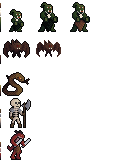
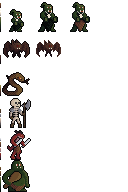
Pixel art, separated monster movement speed and attack speed.

diff --git a/code/monster.c b/code/monster.c
@@ -54,8 +54,9 @@ add_monster(monster_type type, v2u pos)
                     monster->h = 32;
                     monster->max_hp = 3;
                     monster->hp = monster->max_hp;
-                    monster->damage = 1;
-                    monster->speed = 1;
+                    monster->damage = 2;
+                    monster->attack_speed = 1;
+                    monster->move_speed = 1;
                     monster->level = 1;
                     
                     monster->sprite.idle_start_frame = V2u(0, 1);
@@ -81,10 +82,11 @@ add_monster(monster_type type, v2u pos)
                     strcpy(monster->name, "Skeleton");
                     monster->w = 32;
                     monster->h = 32;
-                    monster->max_hp = 4;
+                    monster->max_hp = 5;
                     monster->hp = monster->max_hp;
-                    monster->damage = 2;
-                    monster->speed = 1;
+                    monster->damage = 3;
+                    monster->attack_speed = 1;
+                    monster->move_speed = 1;
                     monster->level = 2;
                     
                     monster->sprite.idle_start_frame = V2u(0, 3);
@@ -110,11 +112,12 @@ add_monster(monster_type type, v2u pos)
                     strcpy(monster->name, "Armored Skeleton");
                     monster->w = 32;
                     monster->h = 32;
-                    monster->max_hp = 8;
+                    monster->max_hp = 5;
                     monster->hp = monster->max_hp;
                     monster->damage = 4;
-                    monster->speed = 1;
-                    monster->level = 4;
+                    monster->attack_speed = 1;
+                    monster->move_speed = 1;
+                    monster->level = 3;
                     
                     monster->sprite.idle_start_frame = V2u(0, 5);
                     monster->sprite.idle_frame_count = 0;
@@ -142,8 +145,9 @@ add_monster(monster_type type, v2u pos)
                     monster->max_hp = 6;
                     monster->hp = monster->max_hp;
                     monster->damage = 3;
-                    monster->speed = 1;
-                    monster->level = 2;
+                    monster->attack_speed = 1;
+                    monster->move_speed = 1;
+                    monster->level = 3;
                     
                     monster->sprite.idle_start_frame = V2u(0, 7);
                     monster->sprite.idle_frame_count = 0;
@@ -171,7 +175,8 @@ add_monster(monster_type type, v2u pos)
                     monster->max_hp = 2;
                     monster->hp = monster->max_hp;
                     monster->damage = 1;
-                    monster->speed = 1;
+                    monster->attack_speed = 1;
+                    monster->move_speed = 1;
                     monster->level = 1;
                     
                     monster->sprite.idle_start_frame = V2u(0, 9);
@@ -199,9 +204,10 @@ add_monster(monster_type type, v2u pos)
                     monster->h = 32;
                     monster->max_hp = 2;
                     monster->hp = monster->max_hp;
-                    monster->damage = 2;
-                    monster->speed = 1;
-                    monster->level = 1;
+                    monster->damage = 1;
+                    monster->attack_speed = 1;
+                    monster->move_speed = 2;
+                    monster->level = 2;
                     
                     monster->sprite.idle_start_frame = V2u(0, 11);
                     monster->sprite.idle_frame_count = 0;
@@ -228,11 +234,42 @@ add_monster(monster_type type, v2u pos)
                     monster->h = 32;
                     monster->max_hp = 6;
                     monster->hp = monster->max_hp;
-                    monster->damage = 3;
-                    monster->speed = 1;
-                    monster->level = 1;
+                    monster->damage = 4;
+                    monster->attack_speed = 1;
+                    monster->move_speed = 1;
+                    monster->level = 3;
                     
                     monster->sprite.idle_start_frame = V2u(0, 13);
+                    monster->sprite.idle_frame_count = 0;
+                    monster->sprite.current_frame = monster->sprite.idle_start_frame;
+                    
+                    if(rand_num(0, 1))
+                    {
+                        monster->sprite.idle_frame_duration = 600 - SPRITE_ANIMATION_OFFSET;
+                    }
+                    else
+                    {
+                        monster->sprite.idle_frame_duration = 600 + SPRITE_ANIMATION_OFFSET;
+                    }
+                    
+                    monster->sprite.dead_start_frame = V2u(0, 10);
+                    monster->sprite.dead_frame_count = 0;
+                    monster->sprite.dead_frame_duration = 150;
+                } break;
+                
+                case monster_ogre:
+                {
+                    strcpy(monster->name, "Ogre");
+                    monster->w = 32;
+                    monster->h = 32;
+                    monster->max_hp = 8;
+                    monster->hp = monster->max_hp;
+                    monster->damage = 6;
+                    monster->attack_speed = 1;
+                    monster->move_speed = 1;
+                    monster->level = 4;
+                    
+                    monster->sprite.idle_start_frame = V2u(0, 15);
                     monster->sprite.idle_frame_count = 0;
                     monster->sprite.current_frame = monster->sprite.idle_start_frame;
                     
@@ -330,6 +367,11 @@ get_monster_attack_message(monster_type type, char *message)
             }
         } break;
         
+        case monster_ogre:
+        {
+            strcpy(message, "The Ogre bashes you for");
+        } break;
+        
         invalid_default_case;
     }
 }
@@ -380,9 +422,14 @@ apply_monster_ai(monster_t *monster)
 internal void
 monster_traverse_path(monster_t *monster, path_t *path)
 {
-    if(V2u_equal(path->list[0], player.pos))
+    if(!monster->has_attacked && V2u_equal(path->list[0], player.pos))
     {
-        monster_attack_player(monster);
+        for(u32 i = 0; i < monster->attack_speed; ++i)
+        {
+            monster_attack_player(monster);
+        }
+        
+        monster->has_attacked = true;
     }
     else
     {
@@ -419,7 +466,6 @@ monster_traverse_path(monster_t *monster, path_t *path)
         {
             monster->new_pos = path->list[0];
         }
-        
     }
     
     free(path);
@@ -433,9 +479,7 @@ update_monsters()
         monster_t *monster = &monsters[i];
         if(monster->type && monster->state)
         {
-            for(u32 speed_index = 0;
-                speed_index < monster->speed;
-                ++speed_index)
+            for(u32 i = 0; i < monster->move_speed; ++i)
             {
                 if(monster->in_combat)
                 {
@@ -450,7 +494,7 @@ update_monsters()
                     }
                     
                     path_t *path = pathfind(monster->pos, player.pos, pathfind_cardinal);
-                    if(path->found)
+                    if(path->was_found)
                     {
                         monster_traverse_path(monster, path);
                     }
@@ -461,7 +505,7 @@ update_monsters()
                 }
                 else
                 {
-                    apply_monster_ai(&monsters[i]);
+                    apply_monster_ai(monsters);
                 }
                 
                 if(is_traversable(monster->new_pos))
@@ -477,6 +521,8 @@ update_monsters()
                 // NOTE(rami): This is to keep the new_pos locked.
                 monster->new_pos = monster->pos;
             }
+            
+            monster->has_attacked = false;
         }
     }
 }

diff --git a/code/moonbreath.c b/code/moonbreath.c
@@ -23,14 +23,6 @@
 // Write the fastest, simplest way what you need, make it actually work.
 // Can you clean it? Simplify it? Pull things into reusable functions? (Compression Oriented)
 
-// TODO(rami): More monsters!!
-// Snake (DONE)
-// Kobold (DONE)
-// Troll
-// Orc (DONE)
-// Bat (DONE)
-// Ogre
-
 // TODO(rami): After we have the above monster art we can start
 // thinking about their stats (remember Speed!) and balance.
 
@@ -479,17 +471,7 @@ run_game()
     generate_dungeon();
     update_fov(); // NOTE(rami): This is so that we can see without moving initially.
     
-    add_monster(monster_skeleton, V2u(player.pos.x - 2, player.pos.y + 1));
-    add_monster(monster_armored_skeleton, V2u(player.pos.x - 2, player.pos.y + 2));
-    add_monster(monster_kobold, V2u(player.pos.x - 2, player.pos.y + 3));
-    
-#if 0
-    add_monster(monster_slime, V2u(player.pos.x - 2, player.pos.y));
-    add_monster(monster_skeleton, V2u(player.pos.x - 2, player.pos.y + 1));
-    add_monster(monster_orc_warrior, V2u(player.pos.x - 2, player.pos.y + 2));
-    add_monster(monster_cave_bat, V2u(player.pos.x - 2, player.pos.y + 3));
-    add_monster(monster_python, V2u(player.pos.x - 2, player.pos.y + 4));
-#endif
+    add_monster(monster_python, V2u(player.pos.x - 2, player.pos.y));
     
 #if 1
     add_item(id_knights_greaves, V2u(player.pos.x, player.pos.y + 2));

diff --git a/code/pathfind.c b/code/pathfind.c
@@ -31,8 +31,8 @@ typedef struct
 
 typedef struct
 {
-    b32 found;
-    u32 length;
+    b32 was_found;
+    u32 list_length;
     v2u list[NODE_COUNT];
 } path_t;
 
@@ -235,7 +235,7 @@ set_path_list(path_t *path, node_t *closed_list, v2u start, v2u end)
         current = find_node(closed_list, current.parent_pos);
     }
     
-    path->length = length;
+    path->list_length = length;
     
     current = find_node(closed_list, end);
     for(s32 i = length - 1; i >= 0; --i)
@@ -270,7 +270,7 @@ pathfind(v2u start, v2u end, pathfind_type type)
             
             if(in_list(lists->closed, end))
             {
-                path->found = true;
+                path->was_found = true;
                 set_path_list(path, lists->closed, start, end);
                 break;
             }

diff --git a/code/monster.h b/code/monster.h
@@ -14,6 +14,7 @@ typedef enum
     monster_cave_bat,
     monster_python,
     monster_kobold,
+    monster_ogre,
     
     monster_total
 } monster_type;
@@ -34,10 +35,12 @@ typedef struct
     u32 hp;
     u32 damage;
     u32 armor;
-    u32 speed;
+    u32 attack_speed;
+    u32 move_speed;
     u32 level;
     
     b32 in_combat;
+    b32 has_attacked;
     
     sprite_t sprite;
     b32 sprite_flip;

diff --git a/code/player.c b/code/player.c
@@ -6,7 +6,7 @@ initialize_player()
     strcpy(player.name, "Zerker");
     player.max_hp = 10;
     player.hp = 8;
-    player.speed = 1;
+    player.move_speed = 1;
     player.fov = 6;
     
     player.sprite.idle_frame_count = 0;

diff --git a/code/player.h b/code/player.h
@@ -11,7 +11,7 @@ typedef struct
     
     u32 strength;
     u32 defence;
-    u32 speed;
+    u32 move_speed;
     
     u32 level;
     u32 money;
